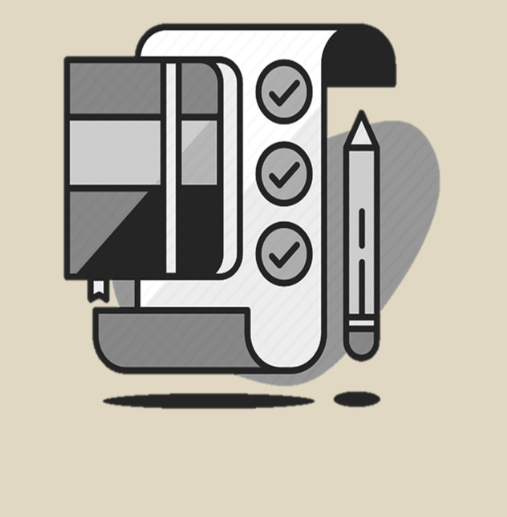
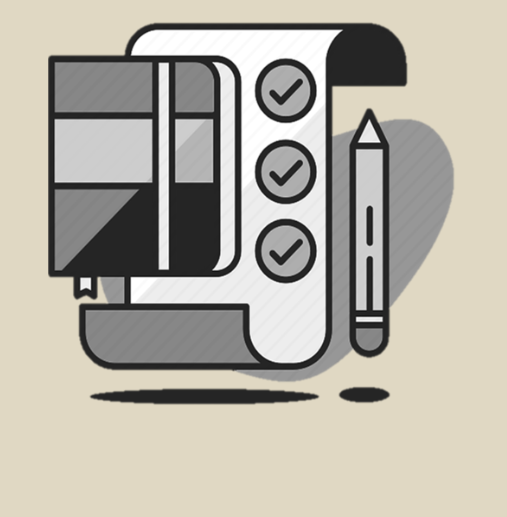
volviendo a subir por error - SEGUNDA COMMIT 2.1

Changed region(s): [[0.0888, 0.0309, 0.9172, 0.8046], [0.6509, 0.7427, 0.7692, 0.8046]]

diff --git a/tareas.py b/tareas.py
@@ -1,12 +1,13 @@
 from tkinter import *
 from tkinter import messagebox
+from tkinter import font
 #from tkinter import font
 
 
 import pymysql
 
 interfaz1= Tk()
-
+#-- ventana
 interfaz1.geometry("600x900")
 interfaz1.resizable(0,0)
 
@@ -14,7 +15,19 @@ Frame1=Frame(interfaz1,width=1500,height=900)
 Frame1.config(bg="#e0d8c3")
 
 
+#------LABEL 
 
+img1=PhotoImage(file="iconota.png")
 
+label0img=Label(Frame1,image=img1,bg="#e0d8c3")
+label2=Label(Frame1,text="TO DO",bg="#e0d8c3",font=("Monofonto",40),fg="black")
+
+label3=Label(Frame1,text="Una  aplicacion sencilla para la \ngestion de tareas,Sientase libre \nde expresar sus ideas ",bg="#e0d8c3",font=("Source Code Pro",18),fg="black")
+
+#-----POSIUC
+
+label0img.place(x=70,y=90)
+label2.place(x=230,y=550)
+label3.place(x=50,y=620)
 Frame1.pack()
 interfaz1.mainloop()
